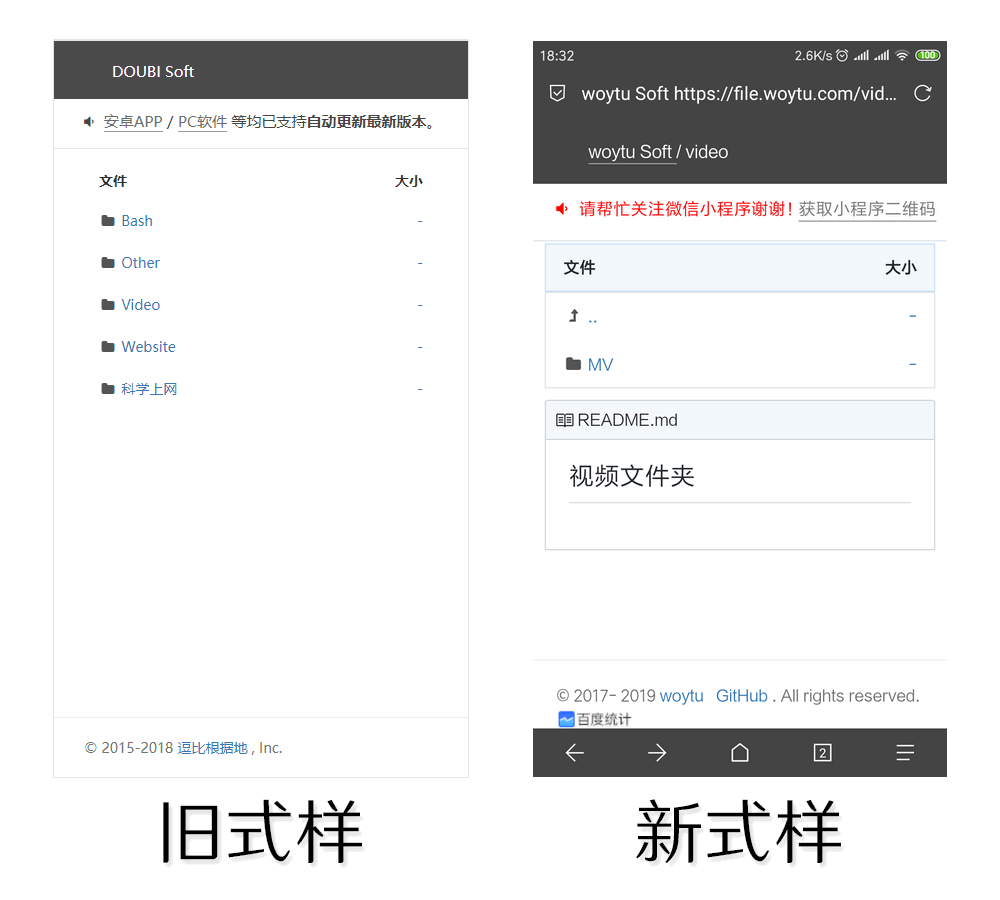
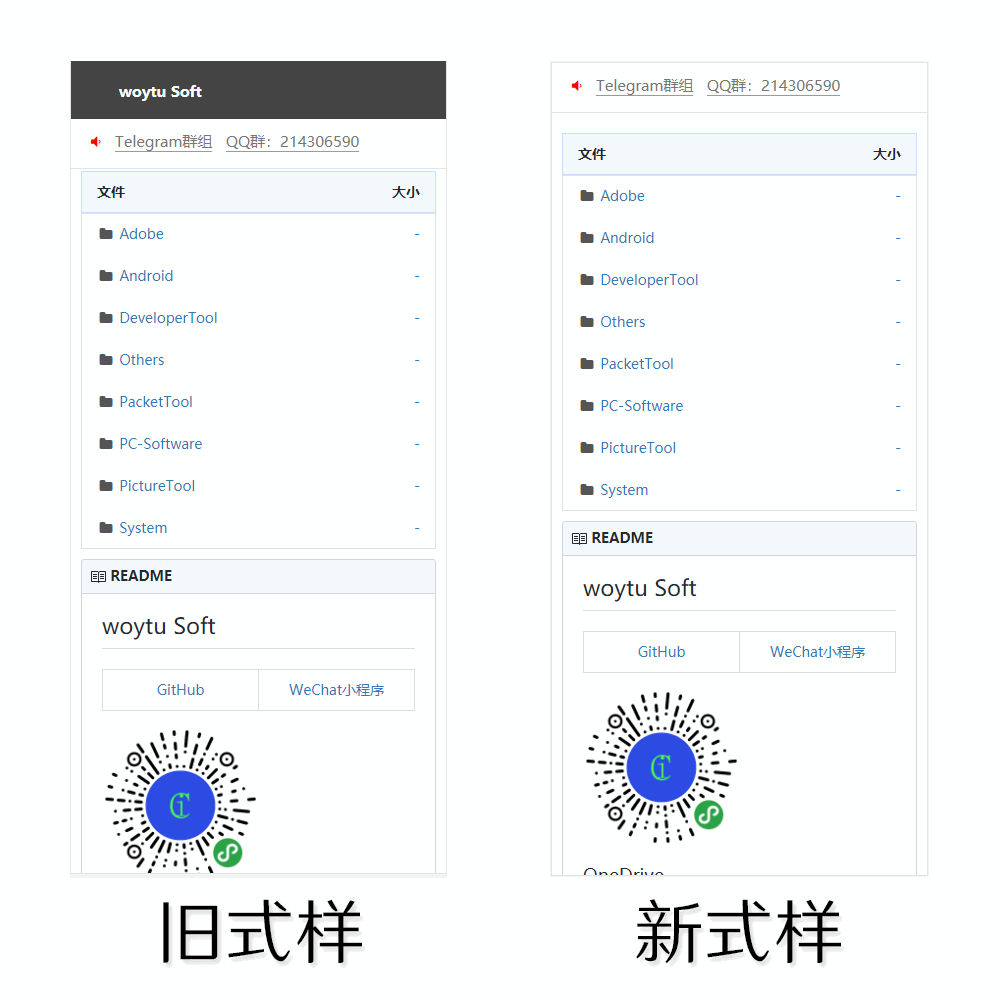
去除顶部链接，化繁为简

diff --git a/resources/themes/bootstrap/css/style.css b/resources/themes/bootstrap/css/style.css
@@ -186,11 +186,6 @@ footer.container {
     }
 }
 
-.path-top {
-    padding-top: 5px;
-    padding-bottom: 1px;
-}
-
 .path-announcement2 {
     overflow: hidden;
     text-overflow: ellipsis;
@@ -198,7 +193,6 @@ footer.container {
 }
 
 .path-announcement {
-    margin-top: 58px;
     background-color: #fafbfc;
     border-bottom: 1px solid #e1e4e8;
 }
@@ -230,7 +224,6 @@ footer.container {
 }
 
 .page-content {
-    margin-top: 40px;
     margin-bottom: 10px;
 }
 

diff --git a/resources/themes/bootstrap/index.php b/resources/themes/bootstrap/index.php
@@ -56,23 +56,6 @@ if (file_exists($md_file)) {
 </head>
 
 <body>
-    <div id="page-navbar" class="path-top navbar navbar-default navbar-fixed-top">
-        <div class="container">
-            <?php $breadcrumbs = $lister->listBreadcrumbs(); ?>
-            <p class="navbar-text">
-                <?php foreach ($breadcrumbs as $breadcrumb) : ?>
-                    <?php if ($breadcrumb != end($breadcrumbs)) : ?>
-                        <a href="<?php echo $breadcrumb['link']; ?>">
-                            <?php echo $breadcrumb['text']; ?>
-                        </a>
-                        <span class="divider">/</span>
-                    <?php else : ?>
-                        <?php echo $breadcrumb['text']; ?>
-                    <?php endif; ?>
-                <?php endforeach; ?>
-            </p>
-        </div>
-    </div>
     <div class="path-announcement navbar navbar-default navbar-fixed-top">
         <div class="path-announcement2 container">
             <!-- 顶部公告栏 start -->
